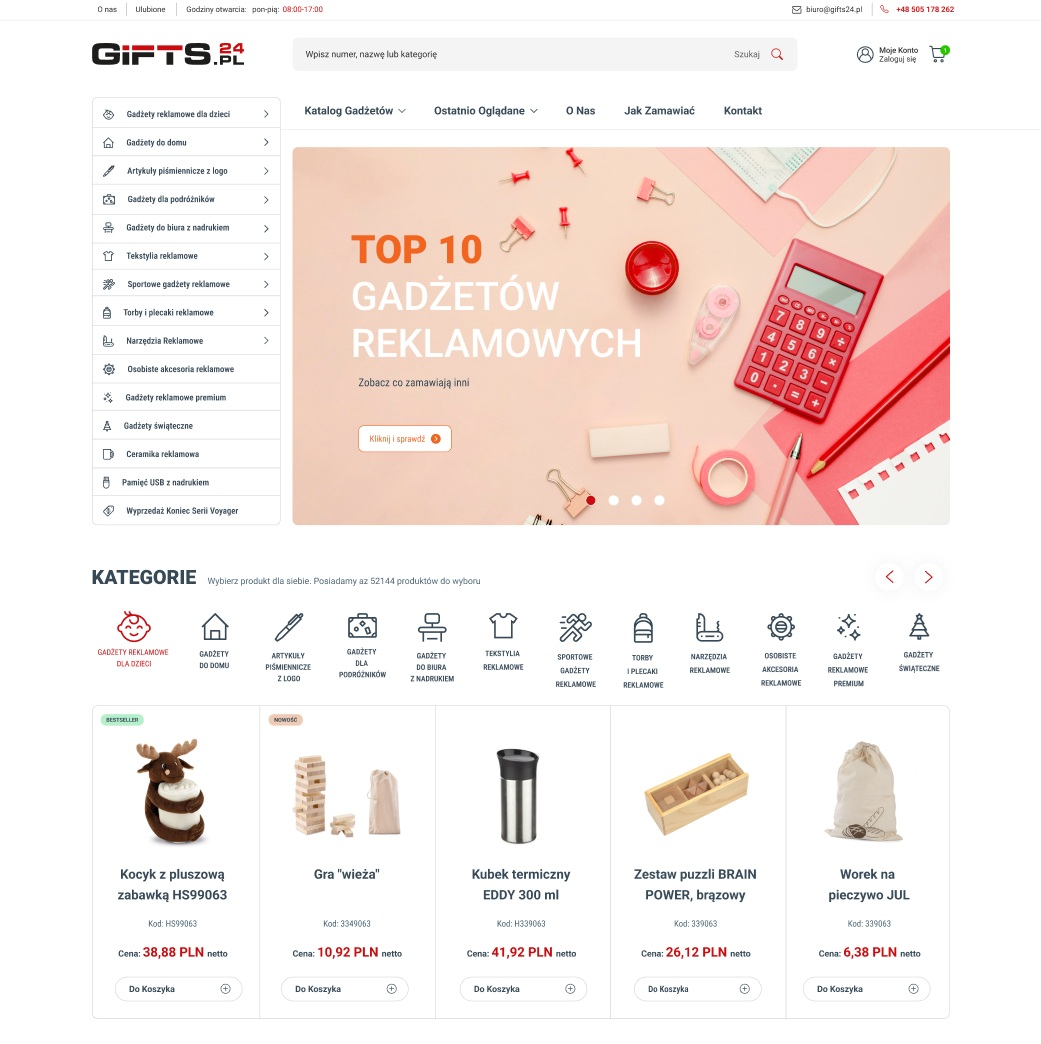
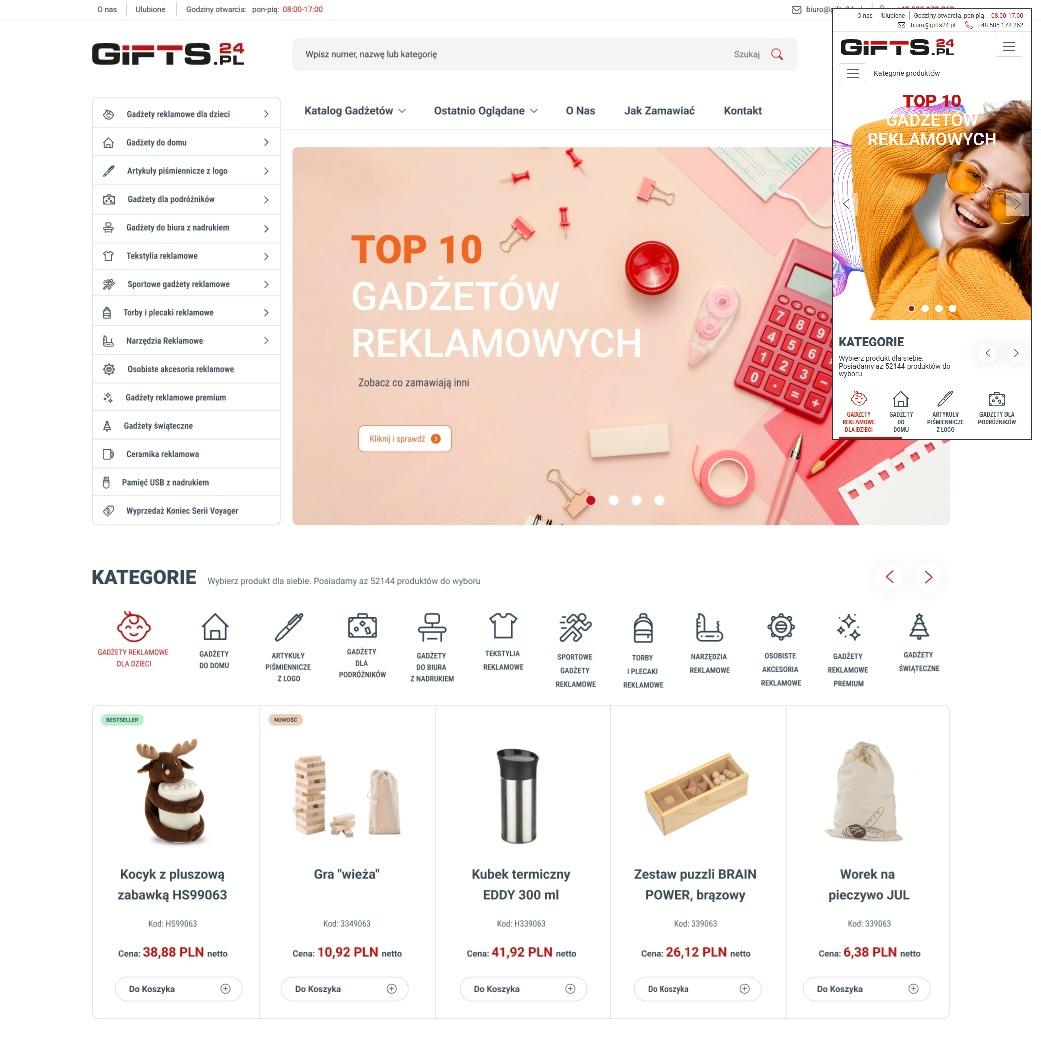
update & add some new screenshots

Changed region(s): [[0.7992, 0.092, 1.0, 0.4291], [0.7992, 0.0, 0.9837, 0.0613], [0.9529, 0.3678, 0.9837, 0.4291]]

diff --git a/README.md b/README.md
@@ -45,3 +45,10 @@ This work is licensed under a Creative Commons Non-Commercial (CC BY-NC) License
 - Desktop & mobile version :desktop_computer: :iphone:
 
 ![screenshot](./screenshots/screenshot01.jpg)
+![screenshot](./screenshots/screenshot02.jpg)
+![screenshot](./screenshots/screenshot03.jpg)
+![screenshot](./screenshots/screenshot04.jpg)
+![screenshot](./screenshots/screenshot05.jpg)
+![screenshot](./screenshots/screenshot06.jpg)
+![screenshot](./screenshots/screenshot07.jpg)
+![screenshot](./screenshots/screenshot08.jpg)
